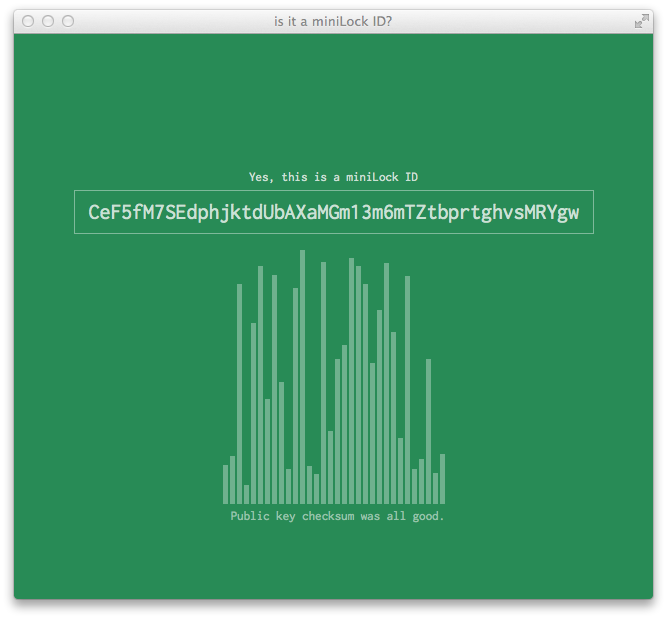
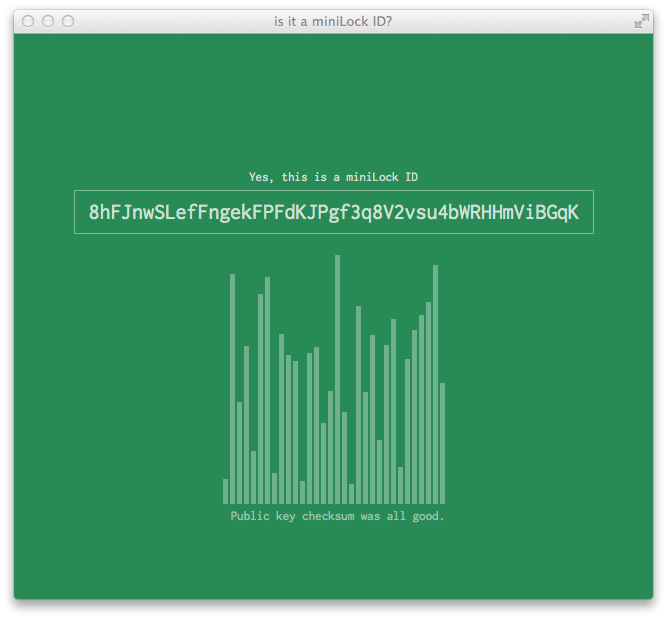
Updated my miniLock ID

Changed region(s): [[0.3298, 0.399, 0.6897, 0.7981], [0.1199, 0.3069, 0.8696, 0.3683]]

diff --git a/id.html b/id.html
@@ -29,8 +29,8 @@
 </form></div>
 
 <div class="demo">
-	<div><label>copy & paste this ID to try it out</label></div>
-	<div><code>CeF5fM7SEdphjktdUbAXaMGm13m6mTZtbprtghvsMRYgw</code></div>
+	<div><label>copy &amp; paste this ID to try it out</label></div>
+	<div><code>8hFJnwSLefFngekFPFdKJPgf3q8V2vsu4bWRHHmViBGqK</code></div>
 </div>
 
 </body>

diff --git a/README.md b/README.md
@@ -1,6 +1,6 @@
 This is a tiny demo of [miniLockLib](https://github.com/45678/miniLockLib) that questions input with `miniLockLib.ID.isAcceptable(...)` and decodes public keys with `miniLockLib.ID.decode(...)`.
 
-Check out [my miniLock ID](https://45678.github.io/is-it-a-minilock-id/?CeF5fM7SEdphjktdUbAXaMGm13m6mTZtbprtghvsMRYgw) or check out [one of your own](https://45678.github.io/is-it-a-minilock/id?).
+Check out [my miniLock ID](https://45678.github.io/is-it-a-minilock/id?8hFJnwSLefFngekFPFdKJPgf3q8V2vsu4bWRHHmViBGqK) or check out [one of your own](https://45678.github.io/is-it-a-minilock/id?).
 
 [<img src="https://raw.githubusercontent.com/45678/is-it-a-miniLock-ID/gh-pages/screenshot_1.png">](https://45678.github.io/is-it-a-minilock/id?)
 
